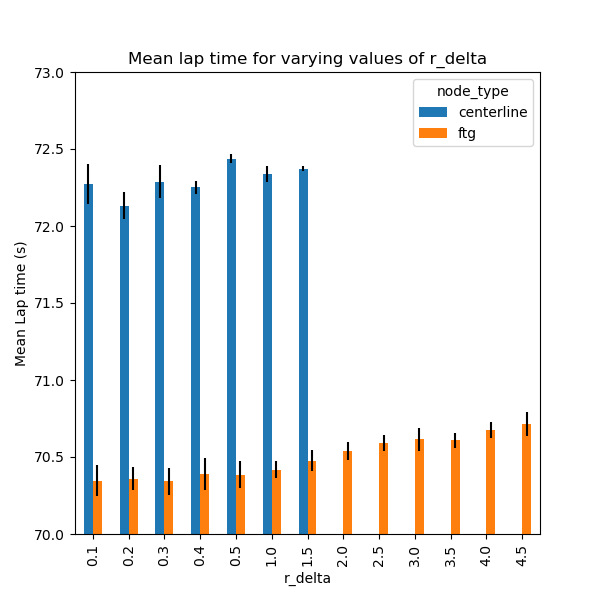
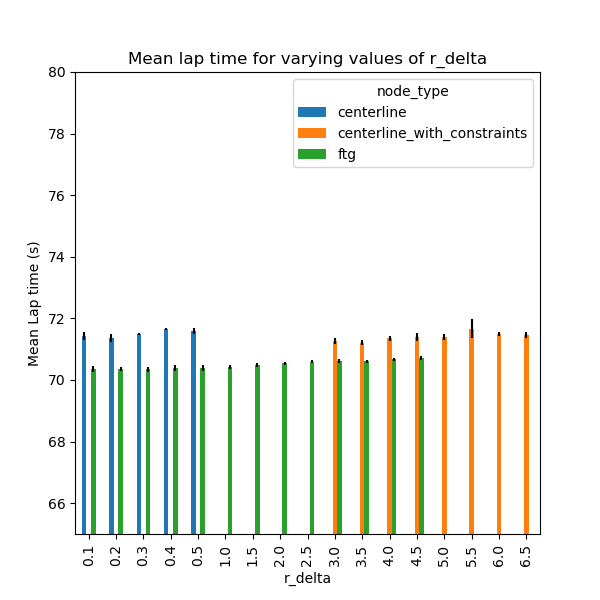
n horizon

diff --git a/src/launch/run_tests.py b/src/launch/run_tests.py
@@ -8,7 +8,7 @@ import sys
 # open the file in the write mode
 cwd=sys.path[0]
 print(cwd)
-csv_filepath=cwd+"/../logs/r_v_cwc_3"
+csv_filepath=cwd+"/../logs/n_horizon_cwc2"
 header=["node_type","velocity_weight","r_v", "r_delta", "n_horizon", "velocity", "world_name", "include obstacles", "lap1", "lap2","lap3", "collisions", "dnf", "mean_laptime", "std_dev"]
 with open(csv_filepath, 'w') as f:
     # create the csv writer
@@ -16,14 +16,14 @@ with open(csv_filepath, 'w') as f:
 
     # write a row to the csv file
     writer.writerow(header)
-param_list=[0.8]
+param_list=[3,5]
 print(param_list)
 for r in param_list: #timeout: 5 min (60*5/5)
     print(r)
     if rosgraph.is_master_online(): # Checks the master uri and results boolean (True or False)
         print('ROS MASTER is Online')
     else: #r_delta 4.0
-        os.system("roslaunch f1tenth_mpc full_simulation.launch node_type:=centerline_with_constraints velocity_weight:=1.5 velocity:=7 r_v:={} r_delta:=4.0 n_horizon:=4 log_file_name:={}".format(r, csv_filepath))
+        os.system("roslaunch f1tenth_mpc full_simulation.launch node_type:=centerline_with_constraints velocity_weight:=1.5 velocity:=7 r_v:=1.0 r_delta:=4.0 n_horizon:={} log_file_name:={}".format(r, csv_filepath))
 
     
 os.system("killall -9 rosmaster")

diff --git a/src/plots/plot2.py b/src/plots/plot2.py
@@ -1,0 +1,37 @@
+import numpy as np
+import rosgraph
+import os
+import time
+import csv
+import sys
+import pandas as pd
+import matplotlib.pyplot as plt
+import seaborn as sns
+
+
+sns.set_theme(context='notebook', style='darkgrid', palette='deep', font='sans-serif', font_scale=1, color_codes=True, rc=None)
+
+
+cwd=sys.path[0]
+print(cwd)
+plot_var="r_delta"
+csv_filepath=cwd+"/../logs/"+plot_var+"_tests"
+
+fig, ax = plt.subplots(1, 3, figsize=(6, 6))
+df=pd.read_csv(csv_filepath)
+#df = df.drop(df[df.dnf==True].index)
+
+df.loc[(df.dnf == 'True'),'mean_laptime']= 0
+df_FTG= df[df.node_type=='ftg']
+plt.bar(df, bins=[1,1,1,1])
+plt.show()
+ax.set_xlabel(plot_var)
+ax.set_ylabel("Mean Lap time (s)")
+plt.title("Mean lap time for varying values of "+ plot_var)
+
+plt.ylim(65, 80)
+plt.axhline(y=74, xmin=0, xmax= 5/17)
+#plt.hlines(87, 0.1, 1.5, color='red')
+plt.show()
+
+#fig.savefig(cwd+"/"+plot_var+".png")

diff --git a/src/plots/plot.py b/src/plots/plot.py
@@ -12,7 +12,7 @@ import seaborn as sns
 
 cwd=sys.path[0]
 print(cwd)
-plot_var="n_horizon"
+plot_var="r_delta"
 csv_filepath=cwd+"/../logs/"+plot_var+"_tests"
 
 # fig, axs = plt.subplots(1, 1, figsize=(6, 6))
@@ -54,5 +54,8 @@ plt.title("Mean lap time for varying values of "+ plot_var)
 #plt.figtext(0.5, -0.3, "Constants:", fontdict=None)
 #ax.annotate("constants", ())
 plt.ylim(65, 80)
+plt.axhline(y=64, xmin=0, xmax= 5/17)
+#plt.hlines(87, 0.1, 1.5, color='red')
+plt.show()
 
-fig.savefig(cwd+"/"+plot_var+".png")
+#fig.savefig(cwd+"/"+plot_var+".png")
